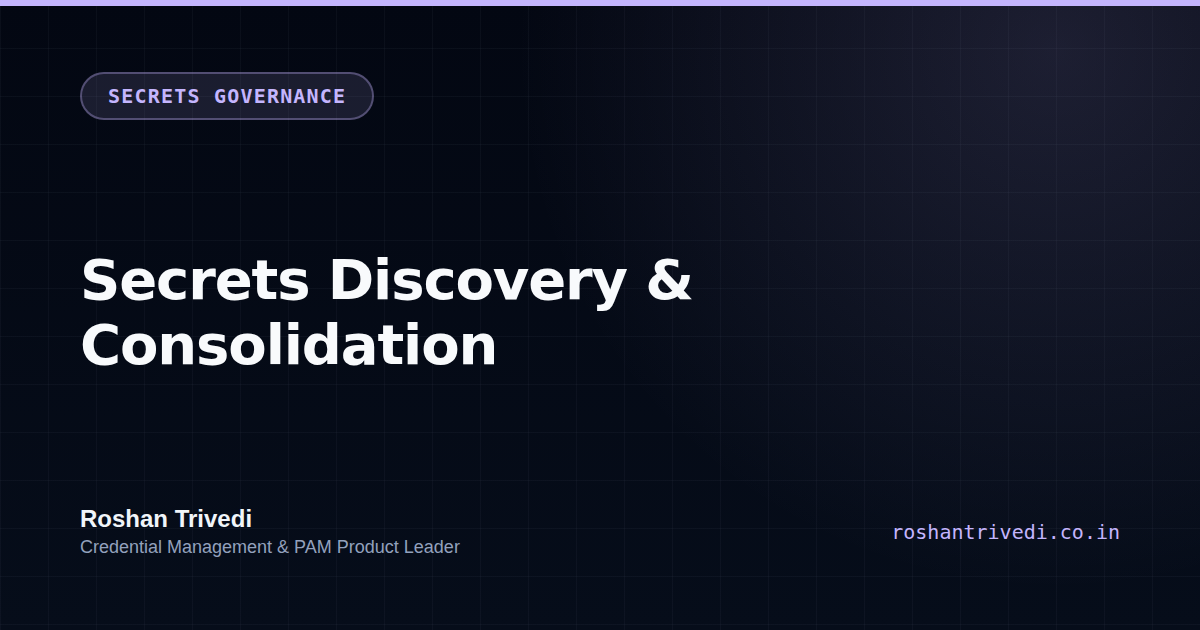
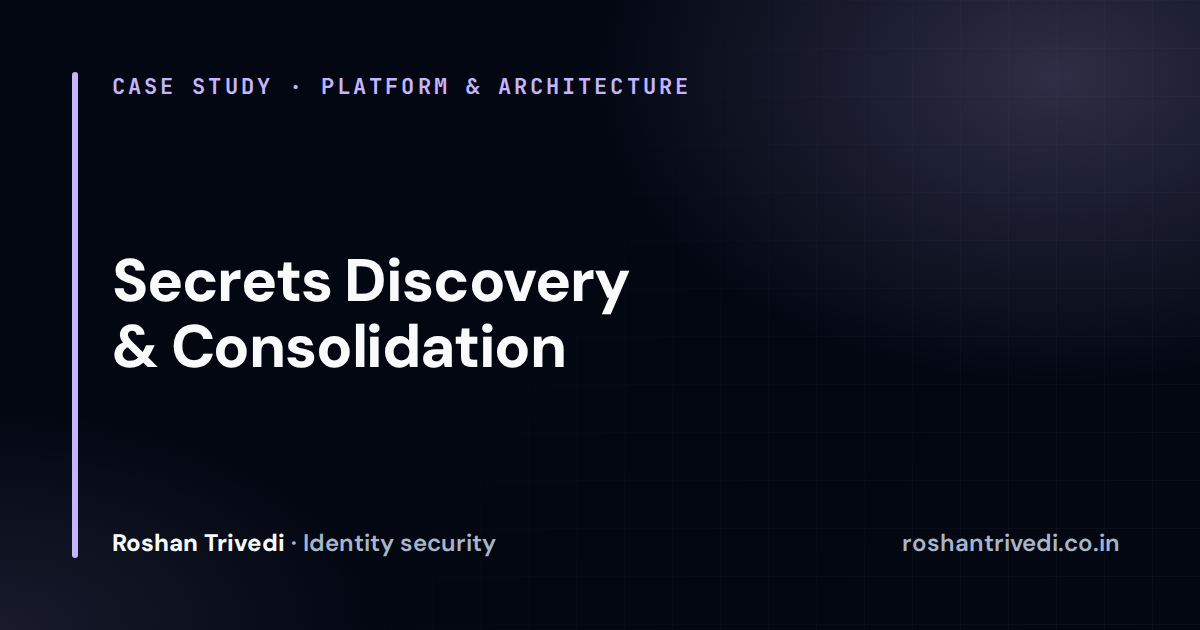
Add tiering self-check tool, branded share images, README notes

Changed region(s): [[0.0617, 0.0905, 0.5858, 0.9048], [0.0, 0.0, 1.0, 0.0302], [0.74, 0.8143, 0.9558, 0.8746]]

diff --git a/assets/tier-check.js b/assets/tier-check.js
@@ -1,0 +1,85 @@
+(function () {
+  var TIERS = [
+    { id: 't0', name: 'Tier 0 \u2014 identity control plane', color: '#ff7a93',
+      fix: 'Tier 0 is the domain controllers, PKI, PAM vaults and the admin plane of your cloud identity provider. One admin acting alone here is the whole game.',
+      qs: [
+        ['Does any Tier 0 action need a second approver (dual control or M-of-N)?', 'Add dual or M-of-N authorization for Tier 0 actions.'],
+        ['Do Tier 0 admins sign in with hardware keys (FIDO2) rather than SMS or push approval?', 'Move Tier 0 admins to phishing-resistant authentication such as FIDO2 keys.'],
+        ['Are Tier 0 sessions recorded, with re-authentication every so often?', 'Record Tier 0 sessions and force periodic re-authentication.'],
+        ['Is your cloud identity provider\u2019s global admin role governed as strictly as your domain admins?', 'Treat the cloud IdP global admin role as Tier 0, with the same review and controls.']
+      ] },
+    { id: 't1', name: 'Tier 1 \u2014 apps, cloud and CI/CD', color: '#f7c873',
+      fix: 'Tier 1 is where service accounts, cloud roles and pipelines live, and where combinations of small permissions create big paths.',
+      qs: [
+        ['Can you see effective permissions across your cloud providers together, including combinations of roles?', 'Get a unified view of effective permissions, reasoning over combinations and not single roles.'],
+        ['Does every non-human identity have a named owner and a risk score?', 'Discover non-human identities continuously and tie each one back to an owner.'],
+        ['Does your pipeline block a commit that contains a hard-coded credential?', 'Make secret scanning a required pipeline check so it blocks the merge instead of reporting later.']
+      ] },
+    { id: 't2', name: 'Tier 2 \u2014 workstations and helpdesk', color: '#7df2d0',
+      fix: 'Tier 2 is where most attacks begin, so what matters is what a stolen workstation credential can reach next.',
+      qs: [
+        ['Does each machine have its own unique, vaulted local-admin credential?', 'Vault a unique local-admin credential per machine.'],
+        ['Is admin elevation just-in-time instead of standing admin rights?', 'Replace standing admin rights with just-in-time elevation.']
+      ] },
+    { id: 'x', name: 'Across the tiers', color: '#c4b5fd',
+      fix: 'These decide whether the tiers actually hold under pressure.',
+      qs: [
+        ['Could a compromised Tier 2 credential reach Tier 0 through standing cross-tier access today?', 'Remove standing cross-tier access and put a just-in-time gate at each tier boundary.', true],
+        ['Do access reviews use usage evidence, with dormant access pre-flagged for removal?', 'Drive certification from usage evidence so reviewers confirm instead of reconstructing.']
+      ] }
+  ];
+  var LINKS = { t0: '/case-studies/credential-tiering-model/', t1: '/case-studies/non-human-identity-at-scale/', t2: '/case-studies/jit-jea-elevation/', x: '/case-studies/access-recertification/' };
+  var qsEl = document.getElementById('tc-qs'), form = document.getElementById('tc-form'), go = document.getElementById('tc-go'), prog = document.getElementById('tc-prog'), res = document.getElementById('tc-res');
+  if (!qsEl) return;
+  var all = [];
+  function el(tag, cls, text) { var e = document.createElement(tag); if (cls) e.className = cls; if (text) e.textContent = text; return e; }
+  TIERS.forEach(function (t) {
+    t.qs.forEach(function (q) {
+      var i = all.length; all.push({ tier: t, q: q });
+      var fs = el('fieldset', 'q'); fs.appendChild(el('legend', '', t.name));
+      fs.appendChild(el('p', '', q[0]));
+      var row = el('div', 'opts');
+      [['Yes', 2], ['Partly', 1], ['No', 0]].forEach(function (o) {
+        var lab = document.createElement('label'), inp = document.createElement('input');
+        inp.type = 'radio'; inp.name = 'q' + i; inp.value = o[1];
+        lab.appendChild(inp); lab.appendChild(el('span', '', o[0])); row.appendChild(lab);
+      });
+      fs.appendChild(row); qsEl.appendChild(fs);
+    });
+  });
+  function answered() { return form.querySelectorAll('input:checked').length; }
+  function update() {
+    var n = answered(); prog.textContent = n + ' of ' + all.length + ' answered';
+    go.disabled = n < all.length;
+  }
+  form.addEventListener('change', update); update();
+  form.addEventListener('submit', function (ev) {
+    ev.preventDefault(); if (answered() < all.length) return;
+    res.textContent = ''; res.hidden = false;
+    res.appendChild(el('h2', '', 'Your read'));
+    TIERS.forEach(function (t) {
+      var got = 0, max = 0, gaps = [];
+      all.forEach(function (a, i) {
+        if (a.tier !== t) return;
+        var v = +form.querySelector('input[name="q' + i + '"]:checked').value;
+        if (a.q[2]) v = 2 - v;
+        got += v; max += 2; if (v < 2) gaps.push(a.q[1]);
+      });
+      var pct = Math.round(100 * got / max);
+      var box = el('div', 'tier'); box.style.setProperty('--c', t.color);
+      box.appendChild(el('h3', '', t.name));
+      box.appendChild(el('span', 'sc', pct + '% covered'));
+      box.appendChild(el('p', 'note', t.fix));
+      if (gaps.length) { var ul = el('ul'); gaps.forEach(function (g) { ul.appendChild(el('li', '', g)); }); box.appendChild(ul); }
+      else box.appendChild(el('p', 'note', 'Nothing to flag here.'));
+      res.appendChild(box);
+    });
+    var p = el('p', 'note', 'Where to read more: '), a1 = el('a', '', 'the tiering study'); a1.href = LINKS.t0;
+    p.appendChild(a1); p.appendChild(document.createTextNode(', '));
+    var a2 = el('a', '', 'non-human identity'); a2.href = LINKS.t1; p.appendChild(a2); p.appendChild(document.createTextNode(', '));
+    var a3 = el('a', '', 'just-in-time elevation'); a3.href = LINKS.t2; p.appendChild(a3); p.appendChild(document.createTextNode('. Want to talk it through? '));
+    var a4 = el('a', '', 'Email me'); a4.href = 'mailto:trivedi.roshan1@gmail.com'; p.appendChild(a4); p.appendChild(document.createTextNode('.'));
+    res.appendChild(p);
+    res.focus(); res.scrollIntoView({ behavior: 'smooth', block: 'start' });
+  });
+})();

diff --git a/tools/tier-check/index.html b/tools/tier-check/index.html
@@ -1,0 +1,71 @@
+<!doctype html>
+<html lang="en">
+<head>
+    <meta charset="UTF-8" />
+    <meta name="viewport" content="width=device-width, initial-scale=1.0" />
+    <meta name="theme-color" content="#030712" />
+    <meta name="robots" content="index,follow,max-image-preview:large" />
+    <meta name="description" content="A three-minute self-check against the Tier 0–3 guardrails: where would one stolen credential stop, and where would it keep going?" />
+    <link rel="canonical" href="https://roshantrivedi.co.in/tools/tier-check/" />
+    <meta property="og:type" content="article" />
+    <meta property="og:title" content="Credential Tiering Self-Check" />
+    <meta property="og:description" content="A three-minute self-check against the Tier 0–3 guardrails: where would one stolen credential stop, and where would it keep going?" />
+    <meta property="og:url" content="https://roshantrivedi.co.in/tools/tier-check/" />
+    <meta property="og:image" content="https://roshantrivedi.co.in/assets/og-roshan-trivedi.png" />
+    <meta property="og:image:width" content="1200" />
+    <meta property="og:image:height" content="630" />
+    <meta name="twitter:card" content="summary_large_image" />
+    <meta name="twitter:image" content="https://roshantrivedi.co.in/assets/og-roshan-trivedi.png" />
+    <title>Credential Tiering Self-Check &middot; Roshan Trivedi</title>
+    <link rel="stylesheet" href="/assets/fonts.css">
+    <link rel="stylesheet" href="/assets/site.css">
+    <link rel="icon" href="/favicon.svg" type="image/svg+xml">
+    <link rel="apple-touch-icon" href="/apple-touch-icon.png">
+    <style>
+      .q{border:1px solid var(--border);border-radius:14px;padding:16px 18px;margin:0 0 12px;background:rgba(255,255,255,.02)}
+      .q legend{padding:0 6px;font:600 11.5px var(--mono);letter-spacing:.06em;text-transform:uppercase;color:var(--accent)}
+      .q p{margin:4px 0 12px;font-weight:600}
+      .opts{display:flex;flex-wrap:wrap;gap:8px}
+      .opts label{cursor:pointer}
+      .opts input{position:absolute;opacity:0;pointer-events:none}
+      .opts span{display:inline-block;border:1px solid var(--border);border-radius:999px;padding:7px 15px;font-size:14px;font-weight:600;color:var(--muted)}
+      .opts input:checked+span{background:var(--accent);border-color:var(--accent);color:#03121a}
+      .opts input:focus-visible+span{outline:2px solid var(--accent);outline-offset:3px}
+      .go{margin-top:8px;background:var(--accent);color:#03121a;border:0;border-radius:999px;padding:11px 22px;font:700 15px var(--body);cursor:pointer}
+      .go:disabled{opacity:.45;cursor:not-allowed}
+      .prog{font:12px var(--mono);color:var(--muted);margin:8px 0 0}
+      .res{margin-top:28px}
+      .tier{border:1px solid var(--border);border-left:4px solid var(--c,var(--accent));border-radius:14px;padding:16px 18px;margin:0 0 12px}
+      .tier h3{margin:0 0 4px;font-family:var(--display);font-size:17px}
+      .tier .sc{font:700 12px var(--mono);color:var(--c,var(--accent))}
+      .tier ul{margin:10px 0 0;padding-left:20px;display:grid;gap:6px;color:var(--muted);font-size:14.5px}
+      .note{color:var(--muted);font-size:14px}
+    </style>
+    <link rel="stylesheet" href="/assets/polish.css">
+  </head>
+  <body style="--c:#7df2d0">
+    <a class="skip" href="#main">Skip to content</a>
+    <main id="main">
+      <nav class="back-row" aria-label="Site"><a class="back" href="/">&larr; back to roshantrivedi.co.in</a> <span class="back" aria-hidden="true">&middot;</span> <a class="back" href="/case-studies/credential-tiering-model/">the tiering case study</a></nav>
+      <header class="hero">
+        <p class="eyebrow">Self-check &middot; 3 minutes</p>
+        <h1>If one credential were stolen, where would it stop?</h1>
+        <p class="dek">Eleven questions based on the guardrails in the <a href="/case-studies/credential-tiering-model/">credential tiering study</a>. Answer honestly for your environment and you&rsquo;ll get a per-tier read on where the gaps are.</p>
+        <p class="note">Everything runs in your browser. Nothing you select is sent or stored anywhere. This is a conversation starter, not an audit.</p>
+      </header>
+      <form id="tc-form" novalidate><div id="tc-qs"></div>
+        <button type="submit" class="go" id="tc-go" disabled>Show my results</button>
+        <p class="prog" id="tc-prog" aria-live="polite"></p>
+      </form>
+      <section class="res" id="tc-res" hidden aria-live="polite" tabindex="-1"></section>
+      <footer class="page-footer">
+        <span>&copy; 2026 &middot; Bengaluru, India &middot; Privacy-safe portfolio</span>
+        <a href="/">roshantrivedi.co.in</a>
+      </footer>
+    </main>
+    <script src="/assets/tier-check.js" defer></script>
+    <link rel="stylesheet" href="/assets/chatbot-widget.css" />
+    <script src="/assets/chatbot-data.js"></script>
+    <script defer src="/assets/chatbot-widget.js"></script>
+  </body>
+</html>

diff --git a/case-studies/credential-tiering-model/index.html b/case-studies/credential-tiering-model/index.html
@@ -247,7 +247,8 @@
           <span>September 2026</span>
           <span>#pam</span><span>#credential-management</span><span>#zero-trust</span><span>#nhi</span>
         </div>
-      </header>
+                <p class="tc-link" style="margin-top:14px"><a href="/tools/tier-check/" style="color:var(--accent);font-weight:700">Try the 3-minute self-check &rarr;</a></p>
+        </header>
 
       <nav class="jump-nav" aria-label="Jump to a section">
         <a href="#mechanism">The mechanism</a>

diff --git a/README.md b/README.md
@@ -66,3 +66,11 @@ Watch the green checkmark under **Deployments → github-pages** on the repo's m
 
 - LinkedIn: [linkedin.com/in/roshan-trivedi](https://www.linkedin.com/in/roshan-trivedi)
 - Email: trivedi.roshan1@gmail.com
+
+## Newer pages and assets
+
+- `/about/`, `/resume/`, `/now/`, `/ai/` are hand-written pages using `assets/site.css`. `/resume/` mirrors the public PDF minus the phone number; update it when the PDF changes.
+- `/tools/tier-check/` is a client-side self-check driven by `assets/tier-check.js` (nothing is sent anywhere).
+- `/case-studies/` filter chips use `assets/filter.js` and each card's `data-group`.
+- `feed.xml` is the RSS feed (Jekyll builds it from `_posts`).
+- Share images `assets/og-case-*.png` were generated from the case-study titles and group colours (1200x630).
